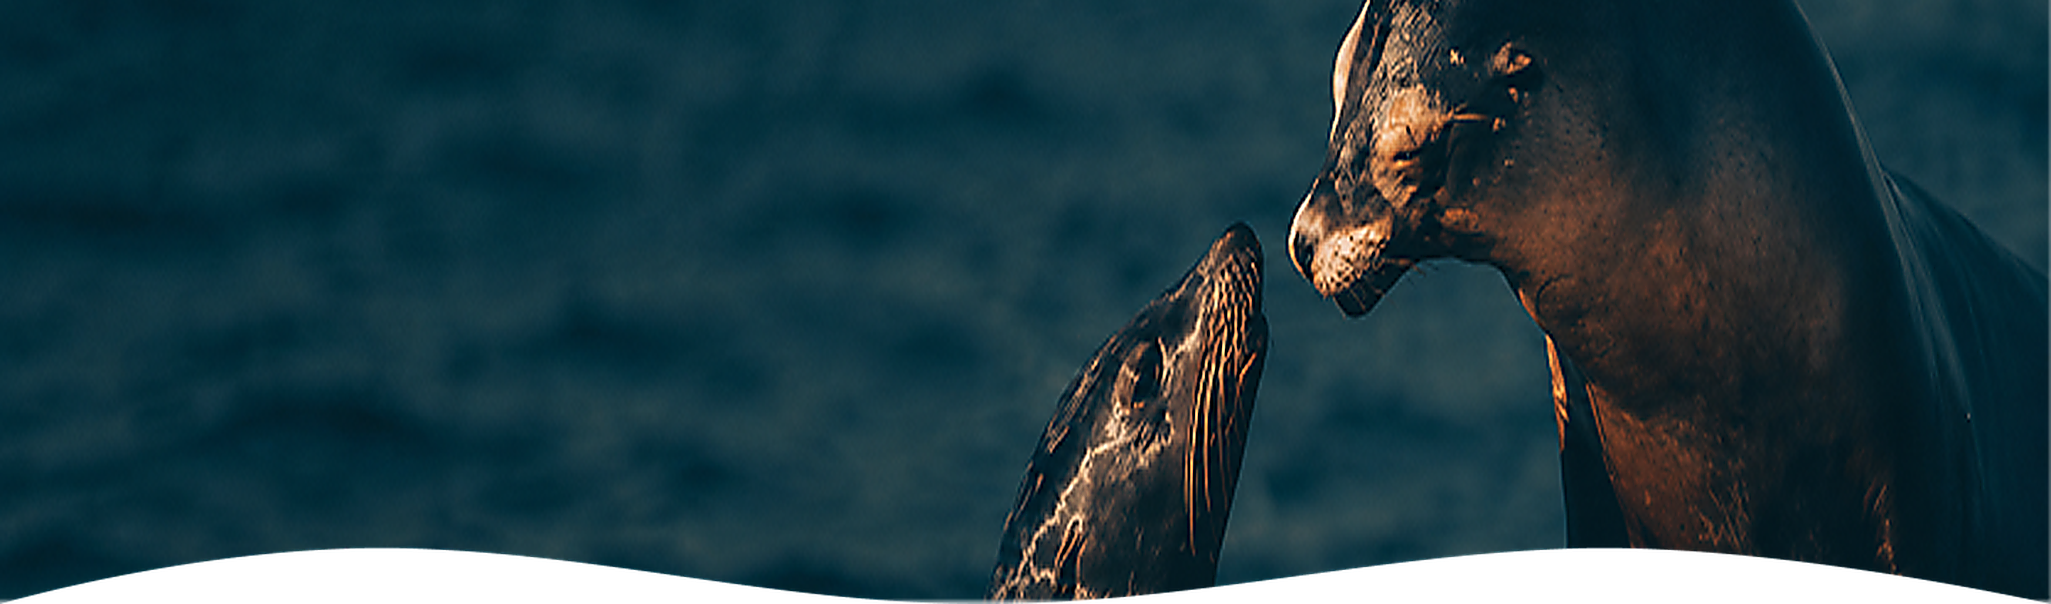
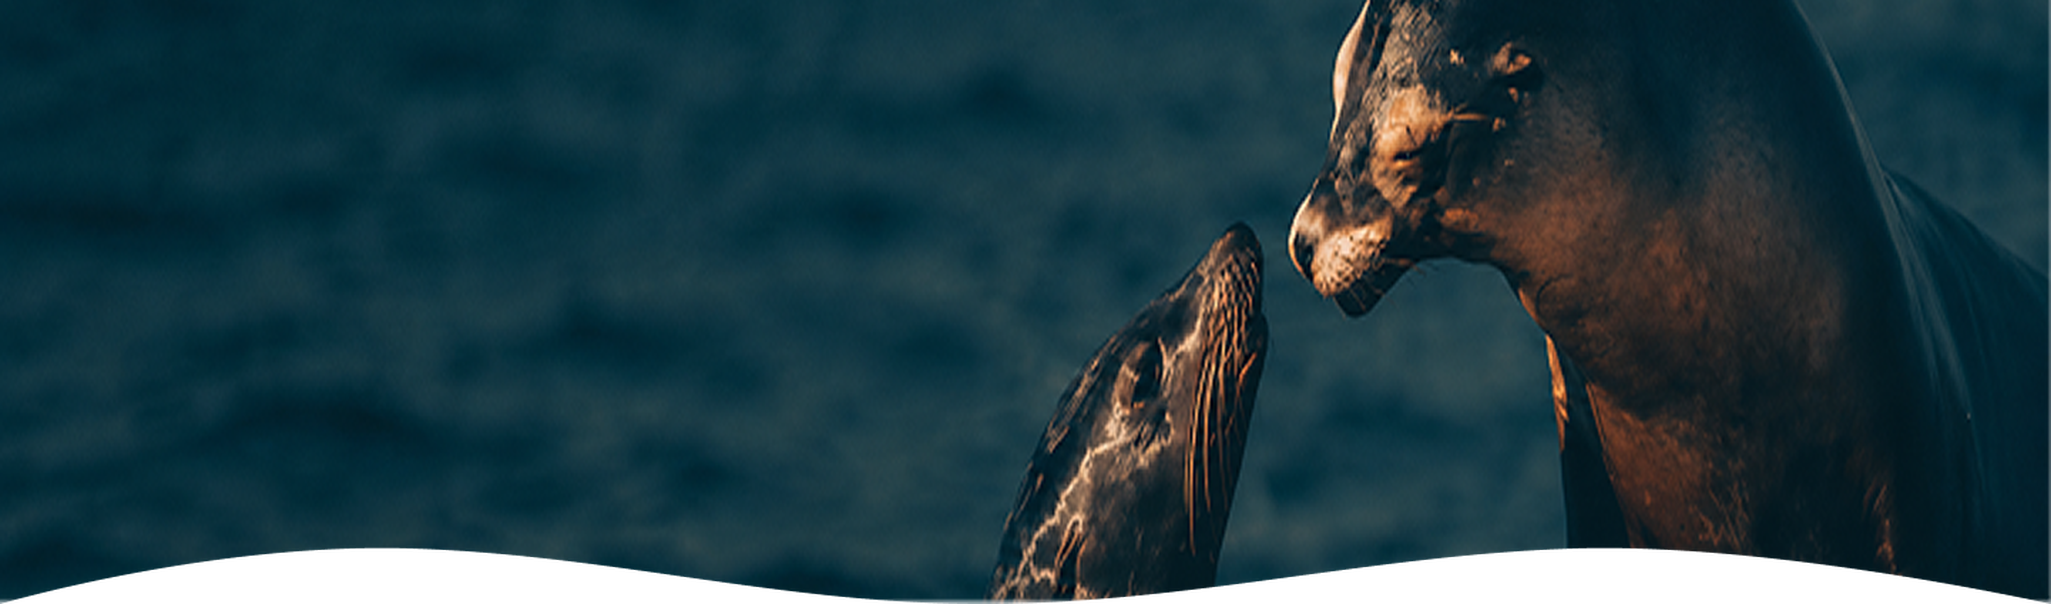
a lot of changes

Changed region(s): [[0.4681, 0.0, 0.7489, 0.9834], [0.7489, 0.5662, 0.7801, 0.7152]]

diff --git a/landing-pages/stingray-bay/index.html b/landing-pages/stingray-bay/index.html
@@ -1,16 +1,145 @@
 <!DOCTYPE html>
 <html lang="en">
-<header class="fcz-site-header">
-  <div class="fcz-header-container">
-    <a href="../../index.html" class="fcz-logo-link" aria-label="Fresno Chaffee Zoo Home">
-      <img src="../../assets/images/fcz-logo.svg" alt="Fresno Chaffee Zoo Logo" class="fcz-logo">
-    </a>
-    <nav class="fcz-main-nav" aria-label="Main Navigation">
-      <ul class="fcz-nav-list">
-        <li><a href="../../index.html" class="fcz-nav-link">Home</a></li>
-        <li><a href="../index.html" class="fcz-nav-link active">Exhibit Portal</a></li>
-        <li><a href="https://fcz.org/plan-your-visit/" class="fcz-nav-link" target="_blank" rel="noopener">Plan Your Visit</a></li>
-      </ul>
-    </nav>
-  </div>
-</header>
+<head>
+  <meta charset="UTF-8">
+  <link rel="stylesheet" href="landingpage.css">
+</head>
+<body>
+  <header class="fcz-site-header">
+    <div class="fcz-header-container">
+      <a href="../../index.html" class="fcz-logo-link" aria-label="Fresno Chaffee Zoo Home">
+        <img src="../assets/fcz-logo.png" alt="Fresno Chaffee Zoo Logo" class="fcz-logo">
+      </a>
+      <nav class="fcz-main-nav" aria-label="Main Navigation">
+        <ul class="fcz-nav-list">
+          <li><a href="../../index.html" class="fcz-nav-link">Home</a></li>
+          <li><a href="../index.html" class="fcz-nav-link active">Exhibit Portal</a></li>
+          <li><a href="https://fcz.org/plan-your-visit/" class="fcz-nav-link" target="_blank" rel="noopener">Plan Your Visit</a></li>
+          <li>VISIT</li>
+          <li>
+            <span>Animals</span>
+            <ul class="dropdown-menu">
+              <li><a href="../sea-lion-cove/index.html">Sea Lion Cove</a></li>
+              <li><a href="../stingray-bay/index.html">Stingray Bay</a></li>
+              <li><a href="index.html">Roo Walkabout</a></li>
+            </ul>
+          </li>
+          <li>EVENTS</li>
+          <li>CONSERVATION</li>
+          <li>LEARNING</li>
+          <li>SUPPORT</li>
+          <li>BLOG</li>
+        </ul>
+      </nav>
+    </div>
+  </header>
+  <main>
+    <section class="hero-banner">
+      <h1>Roo Walkabout</h1>
+      <p>Experience our iconic Australian animals in this immersive outback habitat.</p>
+    </section>
+
+    <div class="columns">
+      <section class="columnleft">
+        <h2>About the Exhibit</h2>
+        <p>Roo Walkabout is an Australian walk-through exhibit which features red kangaroos, wallaroos, wallabies, emu and kookaburras in a unique, multi-species exhibit setting!</p>
+        
+        <h2>ANIMAL CHATS</h2>
+        <p>Shark & Ray 12:30PM</p>
+      </section>
+      <section class="columnright">
+        <img class="kangaroodeco" src="../assets/Kangaroo.png" alt="Front-facing photo of a Kangaroo.">
+      </section>
+    </div>
+
+    <div class="bg">
+      <section class="animals">
+        <h2>Meet the Animals</h2>
+        <div class="card-columns">
+          <ul class="cards">
+            <li class="card1">
+              <a href="../../exhibits/roo-walkabout/red-kangaroos.html">
+                <p>Red Kangaroo</p>
+                <img src="../assets/Red-Kangaroo.png" alt="A photo of two Red Kangaroos lying down on dirt." class="cardimg">
+              </a>
+            </li>
+            <li class="card2">
+              <a href="../../exhibits/roo-walkabout/wallaroo.html">
+                <p>Wallaroo</p>
+                <img src="../assets/Wallaroo.png" alt="A photo of a Wallaroo standing still on grass." class="cardimg">
+              </a>
+            </li>
+            <li class="card3">
+              <a href="../../exhibits/roo-walkabout/wallabies.html">
+                <p>Wallaby</p>
+                <img src="../assets/Wallaby.png" alt="A photo of two Wallabies standing still on grass." class="cardimg">
+              </a>
+            </li>
+            <li class="card4">
+              <a href="../../exhibits/roo-walkabout/emu.html">
+                <p>Emu</p>
+                <img src="../assets/Emu.png" alt="A photo of two Emus standing still in a field of tall grass, with one bending down." class="cardimg">
+              </a>
+            </li>
+          </ul>
+        </div>
+      </section>
+    </div>
+    
+    <footer>
+      <div id="column-left">
+        <img src="../assets/fcz-logo.png" alt="Fresno Chaffee Zoo With a Tiger Eye" id ="footer-logo" width = "10%">
+        <p><b>Fresno Chaffee Zoo</b></p>
+        <p><b>894 West Belmont Ave.</b></p>
+        <p><b>Fresno, California 93728</b></p>
+        <p><b>(559) 498-5910</b></p>
+        <p><b>Get Directions</b></p>
+        <p><b>Contact Us</b></p>
+      </div>
+
+      <div id="column-middle">
+          <p><b>Our History</b></p>
+          <p><b>Executive Team</b></p>
+          <p><b>Measure Z</b></p>
+          <p><b>FCZ Corporation</b></p>
+          <p><b>Reports, RFQs, RFPs, & RFLs</b></p>
+          <p><b>Media Center</b></p>
+          <p><b>Careers</b></p>
+          <p><b>Privacy Policy</b></p>
+          <p><b>Cookie Policy</b></p>
+          <p><b>Terms & Conditions</b></p>
+      </div>
+      <div id="column-right">
+        <form action="" method="post">
+          <h2>GET THE LATEST ZOO INFO & MORE!</h3>
+          <div class="signup first-name">
+            <label for="first-name">
+              <input type="text" id="first-name" name="first-name" placeholder="First Name">
+          </div>
+          <div class="signup last-name">
+            <label for="last-name">
+              <input type="text" id="last-name" name="last-name" placeholder="Last Name">
+          </div>
+          <div class="signup phone-number-area">
+            <label for="phone-number-area">
+              <input type="text" id="phone-number-area" name="phone-number-area" placeholder="(###)">
+          </div>
+          <div class="signup phone-number-prefix">
+            <label for="phone-number-area">
+              <input type="text" id="phone-number-prefix" name="phone-number-prefix" placeholder="###">
+          </div>
+          <div class="signup phone-line-number">
+            <label for="phone-line-number">
+              <input type="text" id="phone-line-number" name="phone-line-number" placeholder="###">
+          </div>
+          <div class="signup email">
+            <label for="email">
+              <input type="text" id="email" name="email" placeholder="email">
+          </div>
+        </form>
+      </div>
+    </footer>
+
+  </main>
+</body>
+</html>

diff --git a/landing-pages/sea-lion-cove/index.html b/landing-pages/sea-lion-cove/index.html
@@ -49,34 +49,38 @@
         <p>3:00PM</p>
       </section>
       <section class="columnright">
-        <img class="kangaroodeco" src="../assets/behindthescenes.png" alt="A photo of a California Sea Lion leaping into water.">
-        <h2>Dive Deeper</h2>
-        <p>Check out our Up-Close Animal Encounter featuring animals from Sea Lion Cove, Nose to Nose.</p>
+        <!-- <img class="kangaroodeco" src="../assets/behindthescenes.png" alt="A photo of a California Sea Lion leaping into water."> -->
+        <div class="cardscene">
+          <h2>Dive Deeper</h2>
+          <p>Check out our Up-Close Animal Encounter featuring animals from Sea Lion Cove, Nose to Nose.</p>
+        </div>
       </section>
     </div>
 
-    <section class="animals">
-      <h2>Meet the Animals</h2>
-      <div class="card-columns">
-        <ul class="cards">
-          <li class="card1">
-            <a href="../../exhibits/sea-lion-cove/california-sea-lions.html">
-              <p>California Sea Lion</p>
-              <img src="../assets/california-sea-lions.png" alt="A photo of a California Sea Lion." class="cardimg">
-            </a>
-          </li>
-          <li class="card2">
-            <a href="../../exhibits/sea-lion-cove/harbor-seal.html">
-              <p>Harbor Seal</p>
-              <img src="../assets/harbor-seal.png" alt="A photo of a Harbor Seal." class="cardimg">
-            </a>
-          </li>
-        </ul>
-      </div>
-    </section>
+    <div class="bg">
+      <section class="animals">
+        <h2>Meet the Animals</h2>
+        <div class="card-columns">
+          <ul class="cards">
+            <li class="card1">
+              <a href="../../exhibits/sea-lion-cove/california-sea-lions.html">
+                <p>California Sea Lion</p>
+                <img src="../assets/california-sea-lions.png" alt="A photo of a California Sea Lion." class="cardimg">
+              </a>
+            </li>
+            <li class="card2">
+              <a href="../../exhibits/sea-lion-cove/harbor-seal.html">
+                <p>Harbor Seal</p>
+                <img src="../assets/harbor-seal.png" alt="A photo of a Harbor Seal." class="cardimg">
+              </a>
+            </li>
+          </ul>
+        </div>
+      </section>
+    </div>
 
     <footer>
-      <div id="column Left">
+      <div id="column-left">
         <img src="../assets/fcz-logo.png" alt="Fresno Chaffee Zoo With a Tiger Eye" id ="footer-logo" width = "10%">
         <p><b>Fresno Chaffee Zoo</b></p>
         <p><b>894 West Belmont Ave.</b></p>

diff --git a/landing-pages/stingray-bay/landingpage.css b/landing-pages/stingray-bay/landingpage.css
@@ -1,0 +1,25 @@
+body {
+    margin: 0;
+}
+
+.hero-banner {
+    background-image: url(../assets/sea-lion-cove-banner.png);
+    background-size: cover;
+    width: 100%;
+    height: 604px;
+}
+
+.columns {
+    display: grid;
+    grid-template-columns: 1fr 1fr;
+}
+
+.columnright {
+    display: flex;
+    justify-content: center;
+}
+
+.kangaroodeco {
+    width: 800px;
+    height: 800px;
+}

diff --git a/landing-pages/sea-lion-cove/landingpage.css b/landing-pages/sea-lion-cove/landingpage.css
@@ -19,7 +19,15 @@ body {
     justify-content: center;
 }
 
-.kangaroodeco {
-    width: 800px;
-    height: 800px;
+.bg {
+    background-image: url(../assets/sea-lion-cove-bg.png);
+    background-size: cover;
+    padding-bottom: 31rem;
+}
+
+.cardscene {
+    background-image: url(../assets/behindthescenes.png);
+    background-size: cover;
+    padding-bottom: 35.7rem;
+    padding: ;
 }

diff --git a/landing-pages/roo-walkabout/index.html b/landing-pages/roo-walkabout/index.html
@@ -92,8 +92,9 @@
         </div>
       </section>
     </div>
+    
     <footer>
-      <div id="column Left">
+      <div id="column-left">
         <img src="../assets/fcz-logo.png" alt="Fresno Chaffee Zoo With a Tiger Eye" id ="footer-logo" width = "10%">
         <p><b>Fresno Chaffee Zoo</b></p>
         <p><b>894 West Belmont Ave.</b></p>

diff --git a/landing-pages/roo-walkabout/landingpage.css b/landing-pages/roo-walkabout/landingpage.css
@@ -23,3 +23,9 @@ body {
     width: 800px;
     height: 800px;
 }
+
+.bg {
+    background-image: url(../assets/roo-walkabout-bg.png);
+    background-size: cover;
+    padding-bottom: 9rem;
+}
